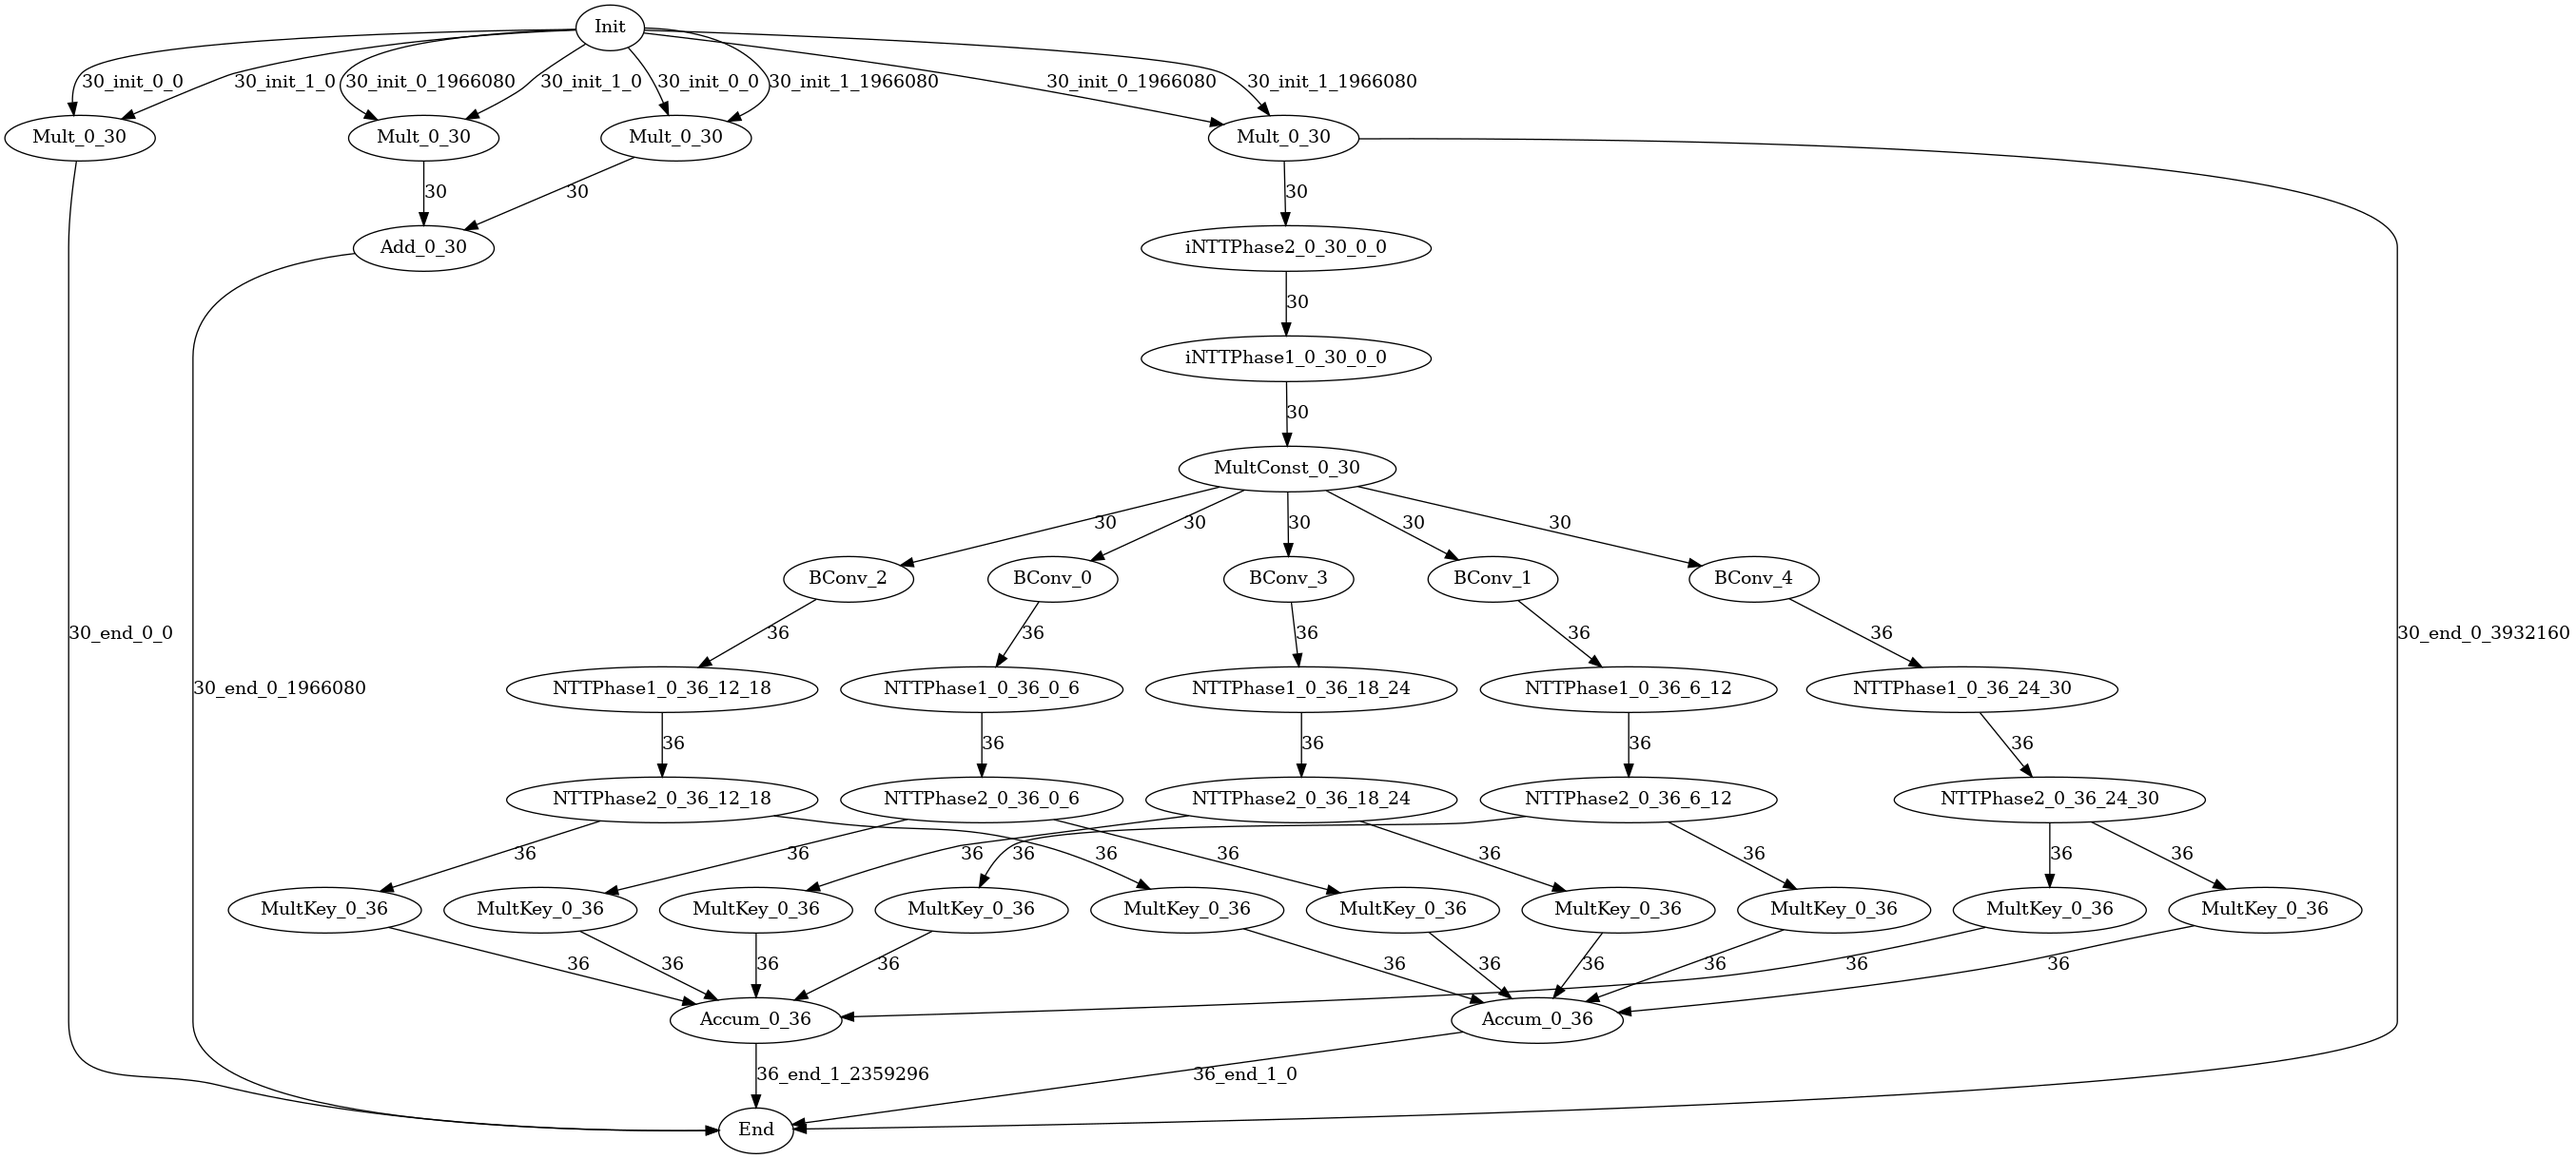
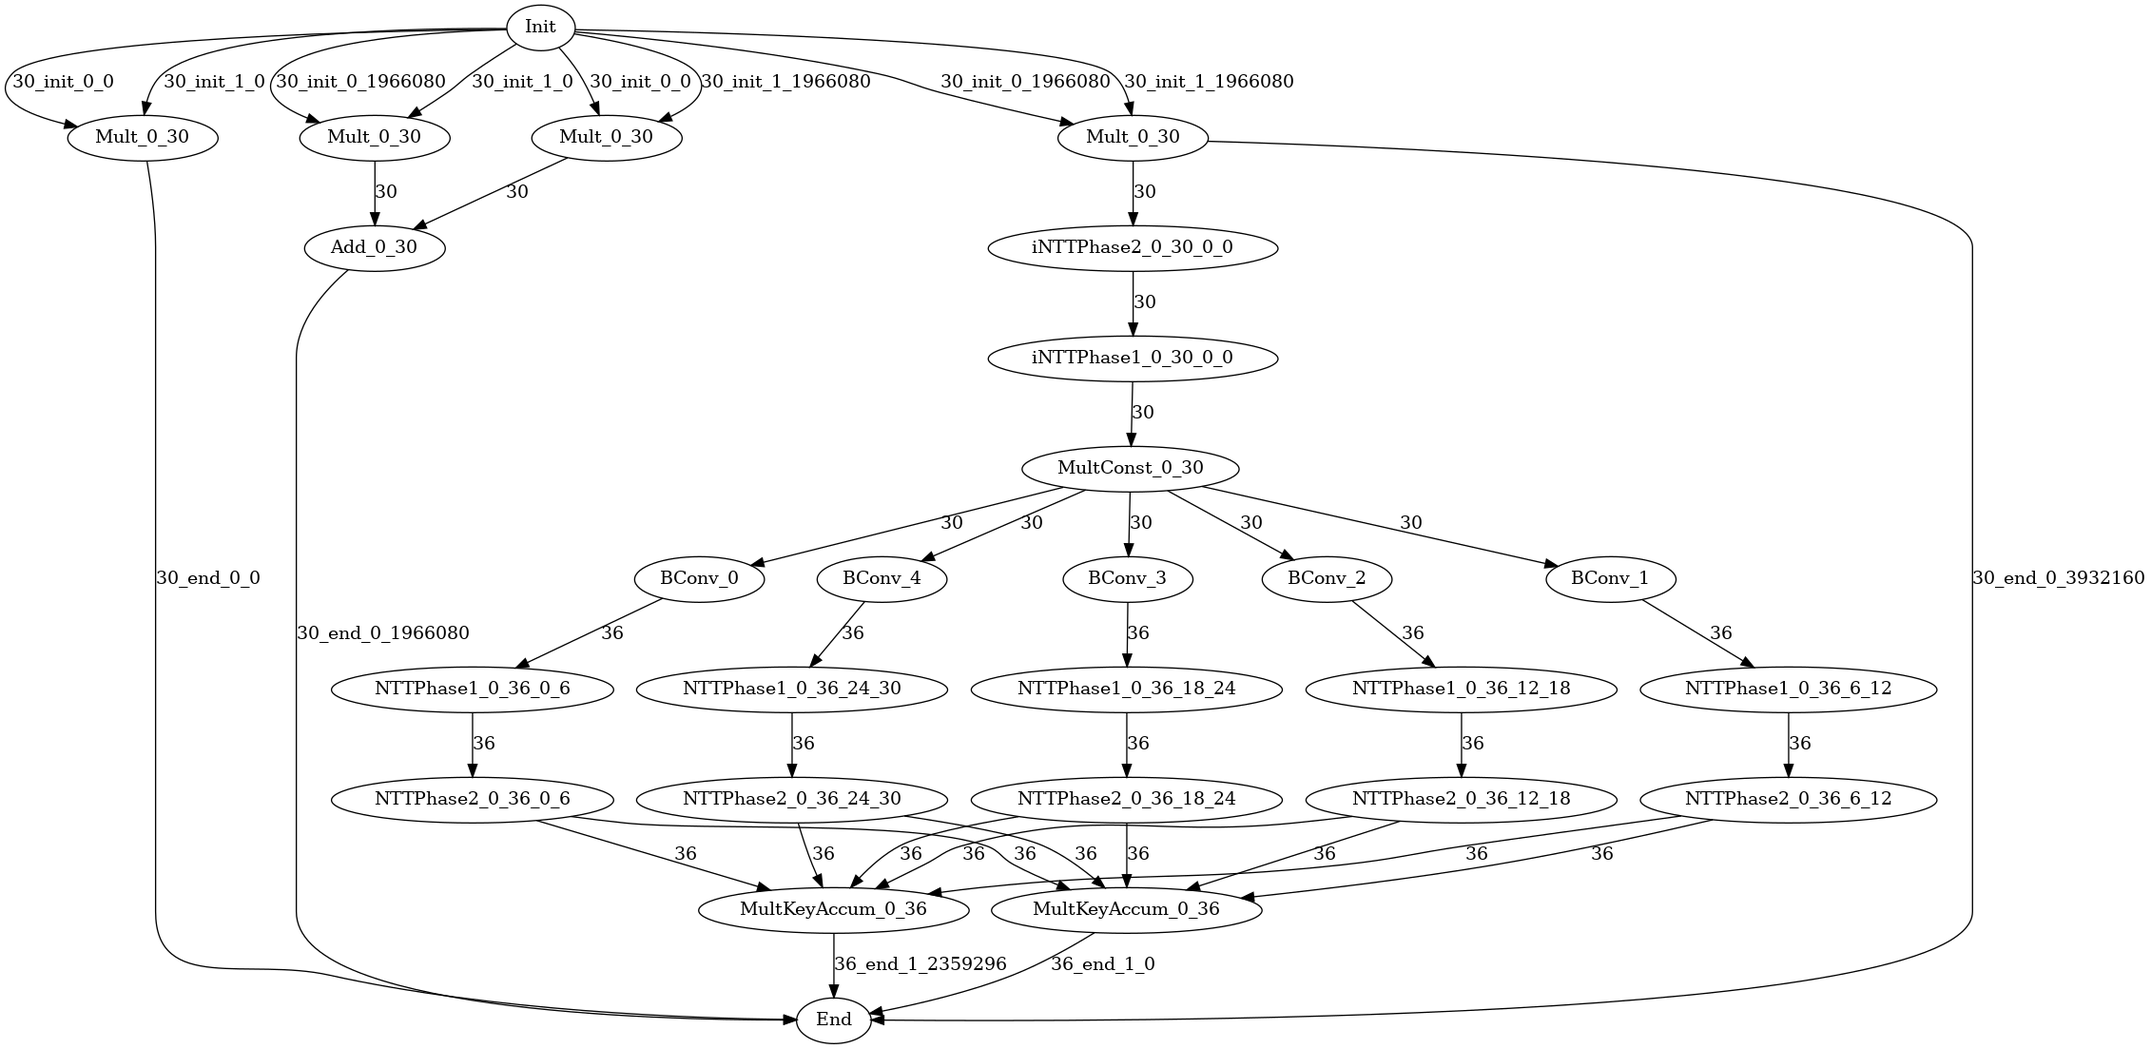
update python interface2

diff --git a/example/ckks_HMult/example.py b/example/ckks_HMult/example.py
@@ -64,6 +64,9 @@ for beta_idx in range(prm.get_beta(prm.L - 1)):
         exclude_start=prm.alpha * beta_idx,
         exclude_end=prm.alpha * (beta_idx + 1),
     )
+    accum_ax_list.append(nttp2_after_bconv)
+    accum_bx_list.append(nttp2_after_bconv)
+    """
     mulkey_ax = pf.mul_key(
         nttp2_after_bconv,
         f"MulKeyAx{beta_idx}",
@@ -79,11 +82,18 @@ for beta_idx in range(prm.get_beta(prm.L - 1)):
     accum_ax_list.append(mulkey_ax)
     accum_bx_list.append(mulkey_bx)
     """
+    """
     res = pf.end(nttp2_after_bconv, 1, prm.N * (prm.L + prm.K) * beta_idx)
     target.append(res)
     """
+
+"""
 accum_ax = pf.accum(accum_ax_list, "AccumAx", start_limb=0, end_limb=prm.L + prm.K)
 accum_bx = pf.accum(accum_bx_list, "AccumBx", start_limb=0, end_limb=prm.L + prm.K)
+"""
+
+accum_ax = pf.mul_key_accum(accum_ax_list, "AccumAx", start_limb=0, end_limb=prm.L + prm.K)
+accum_bx = pf.mul_key_accum(accum_bx_list, "AccumBx", start_limb=0, end_limb=prm.L + prm.K)
 res_ax = pf.end(accum_ax, 1, 0)
 res_bx = pf.end(accum_bx, 1, prm.N * (prm.L + prm.K))
 

diff --git a/pypolyfhe/polyfhe.py b/pypolyfhe/polyfhe.py
@@ -14,6 +14,7 @@ class PolyOpType(Enum):
     Mult = auto()
     MultConst = auto()
     MultKey = auto()
+    MultKeyAccum = auto()
     Decomp = auto()
     BConv = auto()
     ModDown = auto()
@@ -147,6 +148,11 @@ class PolyFHE:
     def mul_key(self, a: PolyOp, name: str, start_limb: int, end_limb: int):
         return PolyOp(
             PolyOpType.MultKey, [a], name, start_limb, end_limb, start_limb, end_limb
+        )
+
+    def mul_key_accum(self, a: [PolyOp], name: str, start_limb: int, end_limb: int):
+        return PolyOp(
+            PolyOpType.MultKeyAccum, a, name, start_limb, end_limb, start_limb, end_limb
         )
 
     def bconv(self, a: PolyOp, name: str, current_limb: int, beta_idx: int, alpha: int):
